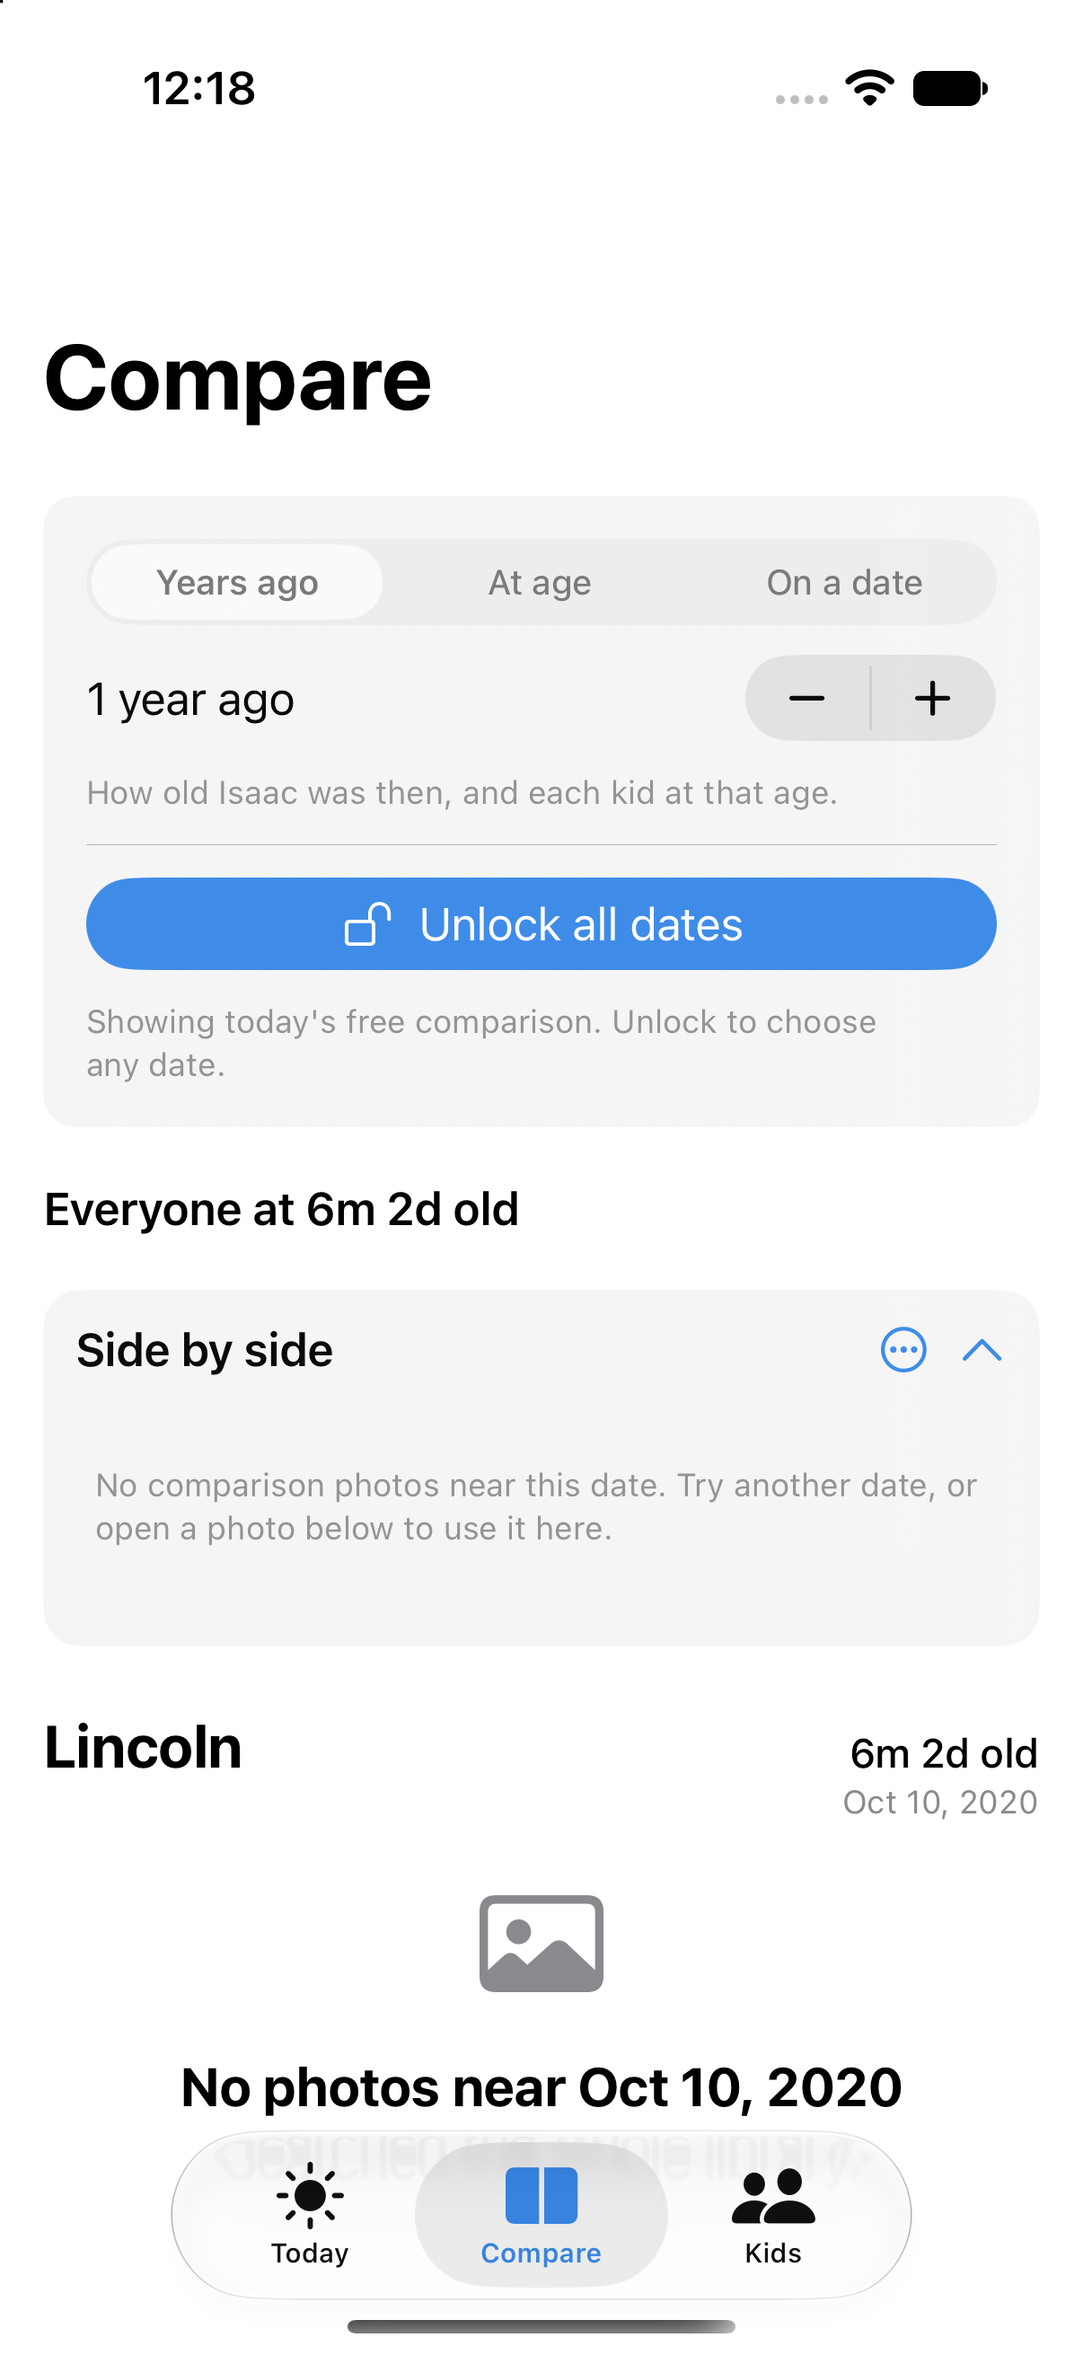
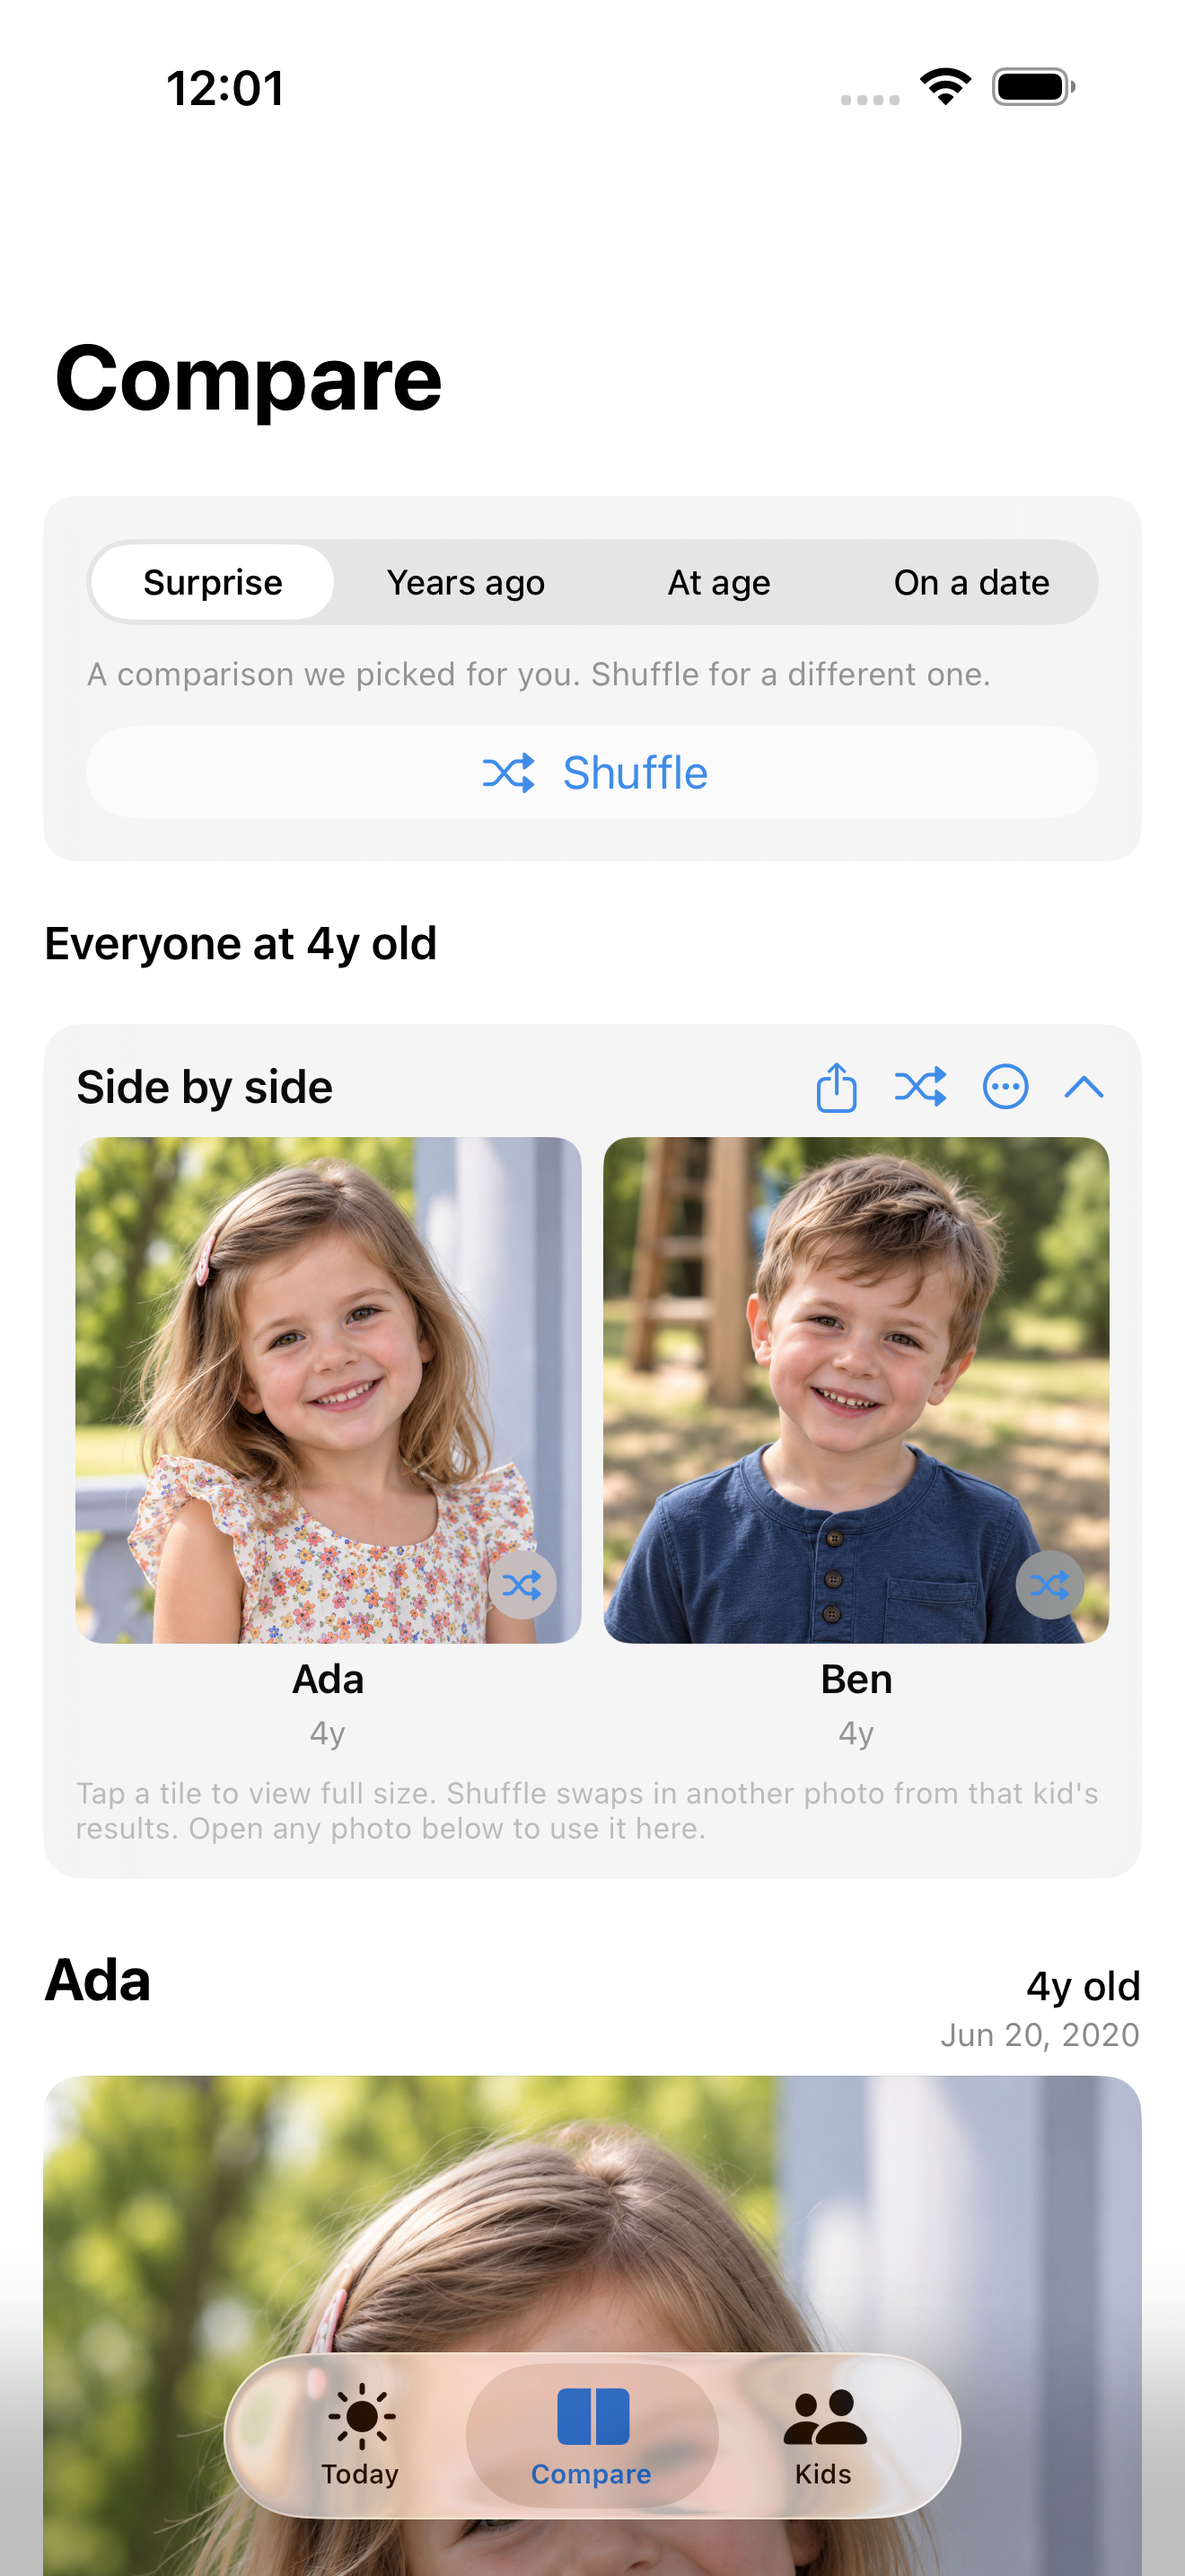
Align At That Age site with App Store listing

diff --git a/src/css/at-that-age.css b/src/css/at-that-age.css
@@ -44,7 +44,8 @@ h1 { margin: 0; color: var(--navy-deep); font-size: clamp(4rem, 7vw, 7.1rem); li
 h1 em { color: var(--blue); font-family: "Newsreader", Georgia, serif; font-weight: 500; }
 .hero-deck { max-width: 590px; margin: 2rem 0 0; color: #536077; font-size: clamp(1.08rem, 1.7vw, 1.28rem); line-height: 1.55; }
 .hero-actions { display: flex; align-items: center; flex-wrap: wrap; gap: 1rem 1.25rem; margin-top: 2rem; }
-.store-button { display: inline-flex; align-items: center; gap: .65rem; min-width: 185px; padding: .65rem 1.1rem; color: white; background: var(--navy-deep); border-radius: .8rem; line-height: 1.03; font-size: 1.12rem; font-weight: 600; box-shadow: 0 10px 24px rgba(19, 38, 66, .2); }
+.store-button { display: inline-flex; align-items: center; gap: .65rem; min-width: 185px; padding: .65rem 1.1rem; color: white; background: var(--navy-deep); border-radius: .8rem; line-height: 1.03; font-size: 1.12rem; font-weight: 600; text-decoration: none; box-shadow: 0 10px 24px rgba(19, 38, 66, .2); transition: transform .18s ease, box-shadow .18s ease; }
+.store-button:hover, .store-button:focus-visible { color: white; transform: translateY(-2px); box-shadow: 0 14px 30px rgba(19, 38, 66, .26); }
 .store-button svg { width: 29px; fill: currentColor; }
 .store-button small { display: block; margin-bottom: .2rem; font-size: .62rem; font-weight: 500; letter-spacing: .02em; }
 .compatibility { color: var(--muted); font-size: .88rem; font-weight: 600; }
@@ -117,6 +118,7 @@ details p { max-width: 730px; margin: -.3rem 0 1.7rem; color: var(--muted); }
 .final-cta .eyebrow { color: #e8f2ff; margin-bottom: .45rem; }
 .final-cta h2 { color: white; font-size: clamp(2rem, 4vw, 3.7rem); }
 .store-button-light { color: var(--navy-deep); background: white; box-shadow: none; }
+.store-button-light:hover, .store-button-light:focus-visible { color: var(--navy-deep); box-shadow: 0 10px 22px rgba(0, 41, 91, .15); }
 
 .site-footer { display: flex; align-items: center; justify-content: space-between; gap: 2rem; padding-block: 2rem 3rem; color: #758096; border-top: 1px solid var(--line); font-size: .83rem; }
 .footer-brand img { width: 34px; height: 34px; border-radius: 9px; }
